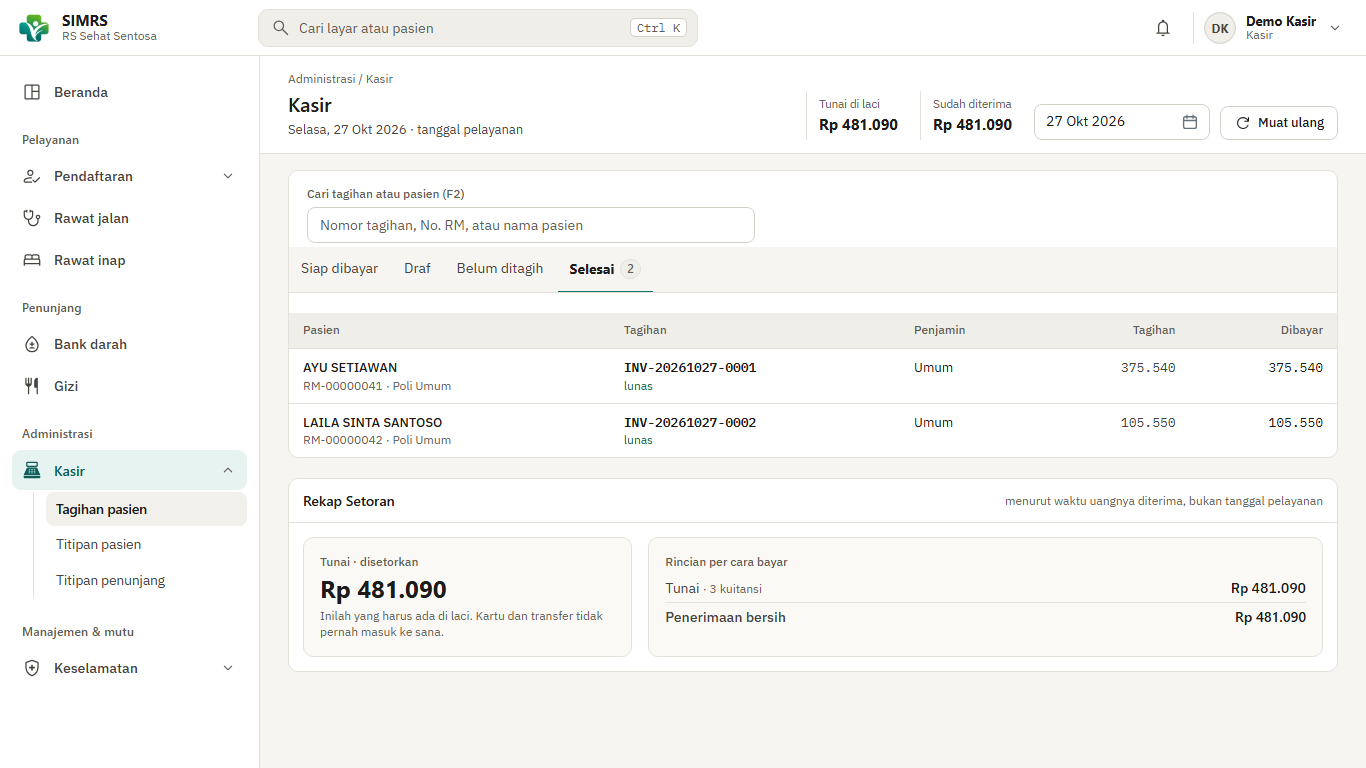
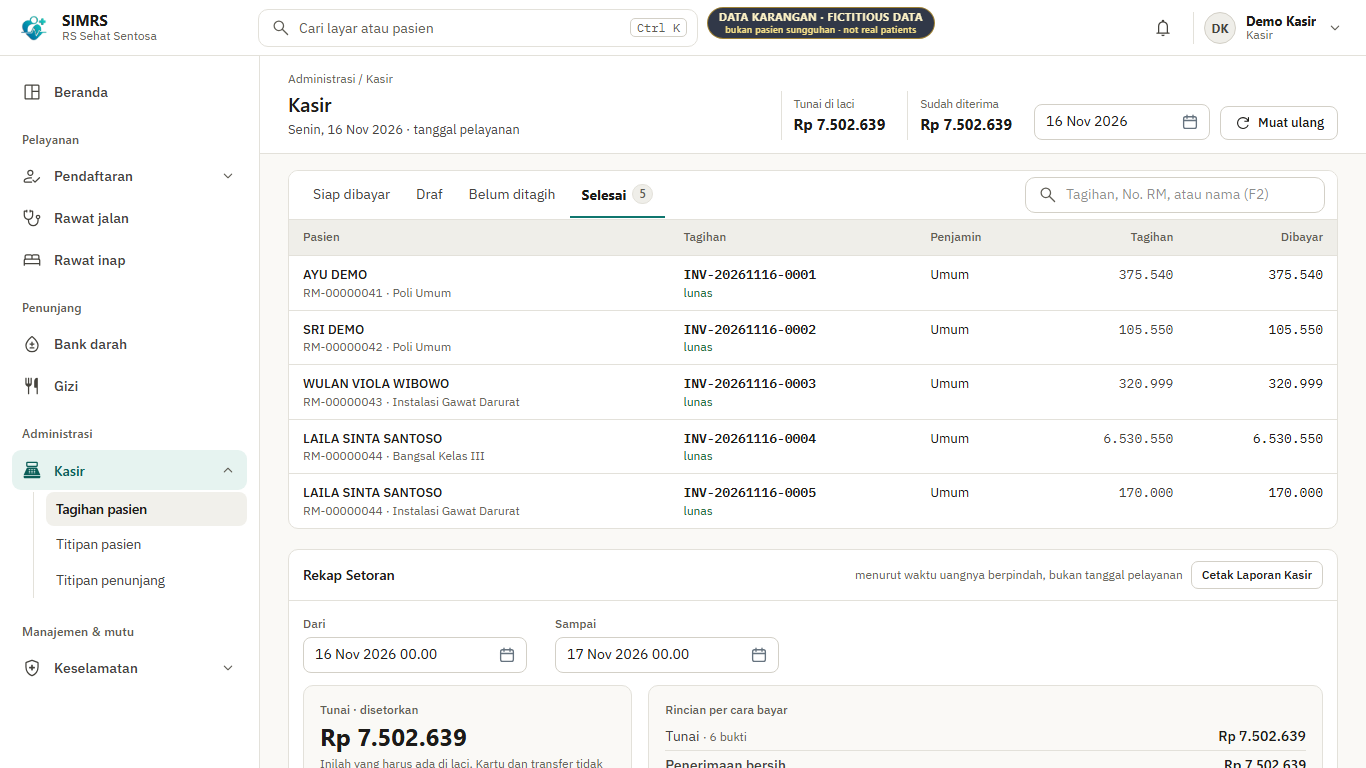
Rilis 2026.11.16: tangkapan layar diperbarui, angka bukti diukur ulang, video S0 sampai S3 segera tayang

diff --git a/README.md b/README.md
@@ -83,7 +83,7 @@ dokternya tenaga kesehatan uji milik Kemenkes (namanya tersamar, begitulah sandb
 <table>
 <tr>
 <td width="50%"><img src="gambar/igd-papan-triase.png" alt="Papan IGD"><br><sub><b>IGD.</b> Antrean menurut kegawatan, dengan peringatan bila lewat target tanggap.</sub></td>
-<td width="50%"><img src="gambar/kamar-operasi.png" alt="Kamar operasi"><br><sub><b>Kamar operasi.</b> Waktu operasi, persetujuan tindakan, dan set instrumen.</sub></td>
+<td width="50%"><img src="gambar/kamar-operasi.png" alt="Kamar operasi"><br><sub><b>Kamar operasi.</b> Asesmen pra-anestesi, pemulihan pasca-anestesi, dan waktu operasi.</sub></td>
 </tr>
 <tr>
 <td><img src="gambar/kamar-bersalin.png" alt="Kamar bersalin"><br><sub><b>Kamar bersalin.</b> Catatan persalinan, komplikasi, persetujuan tindakan, dan tanda vital ibu.</sub></td>
@@ -147,7 +147,7 @@ Dua hal berlaku untuk semuanya:
 
 Kolom *Keadaan* menjawab satu pertanyaan: **seberapa jauh integrasinya sudah dibuktikan.**
 
-| Integrasi | Fungsinya | Keadaan (3 Nov 2026) |
+| Integrasi | Fungsinya | Keadaan (16 Nov 2026) |
 |---|---|---|
 | **SATUSEHAT** (HL7 FHIR R4) | Data master dan data klinis tiap kunjungan, resume medis, tagihan. Di lembar kerja ada juga tombol **SATUSEHAT Rekam Medis (SSRME)**: minta persetujuan pasien, akses darurat IGD, dan pembukaan rekam medis nasional oleh dokter penanggung jawab | **Terbukti di sandbox Kemenkes.** Produksi menunggu registrasi sistem rekam medis ke Kemenkes dan kredensial produksi |
 | **SATUSEHAT Webhook** | Menerima jawaban penjamin (eligibilitas, persetujuan, hasil klaim) | Penerima dan pembuka pesan terenkripsi (HPKE) ada, diuji dengan vektor RFC 9180. **Kiriman sungguhan dari Kemenkes belum pernah terlihat** |
@@ -198,15 +198,15 @@ terpenuhi**.
 
 ## Bagaimana kami membuktikannya
 
-Angka di bawah diukur pada **3 November 2026** dan akan basi. Tanggalnya sengaja ditulis. Tangkapan dasbor Kemenkes
+Angka di bawah diukur pada **16 November 2026** dan akan basi. Tanggalnya sengaja ditulis. Tangkapan dasbor Kemenkes
 di bawahnya bertanggal sendiri.
 
 | Yang diukur | Hasil | Cara |
 |---|---|---|
 | Langkah interoperabilitas SATUSEHAT yang jadi tugas sistem rumah sakit | **499 dari 526** terbukti diterima gerbang sandbox. 27 belum | Daftar langkah resmi Kemenkes per modul (34 modul), diadu mesin dengan bukti dari gerbang. 61 langkah lain dikerjakan pihak lain |
-| Jenis pesan yang pernah diterima gerbang | 119 | Berkas bukti ditulis mesin dari antrean sesudah rantai dijalankan |
+| Jenis pesan yang pernah diterima gerbang | 121 | Berkas bukti ditulis mesin dari antrean sesudah rantai dijalankan |
 | Jenis resource di dasbor Monitoring Integrasi SATUSEHAT (sandbox) | **19 dari 19** terisi, rentang 27 Sep sampai 27 Okt 2026, diperbarui 27 Okt 2026 pukul 00.01 WIB | Tangkapan dasbor milik Kemenkes di sisi mereka, dibaca sesudah seluruh skenario dan tur dijalankan. Gambarnya di bawah |
-| Tur otomatis | **362 tes** di 28 berkas | Peramban sungguhan yang menekan tombol seperti petugas: tes yang hijau berarti tombolnya benar-benar bekerja |
+| Tur otomatis | **441 tes** di 37 berkas | Peramban sungguhan yang menekan tombol seperti petugas: tes yang hijau berarti tombolnya benar-benar bekerja |
 
 <img src="gambar/monitoring-satusehat-sandbox.png" alt="Dasbor Monitoring Integrasi SATUSEHAT di sandbox: seluruh 19 jenis resource terisi" width="860">
 
@@ -315,15 +315,16 @@ jurnal akuntansi yang lahir dari kegiatan rumah sakit, beserta pekerjaan bagian 
 
 | Video | Isinya | Tonton |
 |---|---|---|
-| **S0** | Dari paket yang baru diunduh sampai aplikasi siap dipakai | [Tonton](https://youtu.be/vxvFJVgF-ik), 17 menit |
-| **S1** | Rawat jalan poli umum dengan dua pasien: pendaftaran, pemeriksaan, penahanan alergi, laboratorium, radiologi, farmasi, kasir | [Tonton](https://youtu.be/6iUPR7-54cw), 34 menit |
-| **S2** | IGD: pasien tak dikenal, obat dari troli, pulang | [Tonton](https://youtu.be/Dmu7YNxhUm4), 14 menit |
-| **S3** | IGD ke rawat inap ke operasi ke pulang | [Tonton](https://youtu.be/FJ4FmjZpwsE), 38 menit |
+| **S0** | Dari paket yang baru diunduh sampai aplikasi siap dipakai | Segera tayang, 17 menit |
+| **S1** | Rawat jalan poli umum dengan dua pasien: pendaftaran, pemeriksaan, penahanan alergi, laboratorium, radiologi, farmasi, kasir | Segera tayang, 32 menit |
+| **S2** | IGD: pasien tak dikenal ditangani tanpa menunggu identitas, obat dari troli, identitas dilengkapi pada berkas yang sama, tagihan lunas | Segera tayang, 17 menit |
+| **S3** | IGD ke rawat inap ke operasi ke pulang, dengan obat pulang dari apotek dan resume medis | Segera tayang, 37 menit |
 | **AK1** | Akuntansi: jurnal yang lahir dari kegiatan rumah sakit, dari obat diterima sampai klaim BPJS dibayar, dibuka dengan neraca, laba rugi, dan stok awal bulan | [Tonton](https://youtu.be/O_5LYMKMhAQ), 15 menit |
 | **AK2** | Akuntansi: utang pemasok, aset tetap, gaji, jasa dokter, dan penyusutan, ditutup dengan neraca dan laba rugi dua periode serta kartu stok | [Tonton](https://youtu.be/8NDDQrqOtHM), 11 menit |
 
-Video direkam pada 3 November 2026 dari versi yang hampir sama dengan rilis terbaru. Beberapa
-perbaikan tampilan kecil menyusul sesudahnya, jadi satu dua layar dapat sedikit berbeda.
+S0 sampai S3 direkam ulang pada 15 dan 16 November 2026 dari versi yang hampir sama dengan rilis 2026.11.16, sesudah
+tampilannya banyak berubah. AK1 dan AK2 direkam 3 November 2026, jadi beberapa layarnya dapat
+sedikit berbeda dari versi terbaru.
 
 Video **tidak membuktikan pengiriman ke Kemenkes**. Integrasi dimatikan pada rekamannya.
 

diff --git a/docs/PANDUAN.md b/docs/PANDUAN.md
@@ -94,8 +94,10 @@ aplikasi lalu hanya mengisinya.
   aplikasi ini bisa masuk. Jangan membukanya ke jaringan yang tidak Anda percayai.
 - **Tanpa data contoh, aplikasi mulai dari kosong.** Administrator membuat akun di
   **Pengaturan → Pengguna**, dan data dasar (poliklinik, tenaga kesehatan, layanan, tarif,
-  obat) di **Master data**. Nama rumah sakit bawaannya *RS Sehat Sentosa*; gantilah di
-  **Master data → Lokasi**.
+  obat) di **Master data**. Nama rumah sakit bawaannya *RS Sehat Sentosa*, beralamat
+  karangan (*Jl. Nama Jalan, Kelurahan, Kecamatan, Kabupaten/Kota, Provinsi*) dan
+  berlogo contoh; ketiganya tercetak di kop dokumen dan digantilah di
+  **Pengaturan → Profil rumah sakit**.
 - **Sandi baru administrator tidak boleh memuat kata `admin`**, minimal 10 karakter, dan
   tidak boleh angka saja. Layar ganti sandi menyebutkan syarat mana yang belum terpenuhi.
 - **Autentikator hanya diwajibkan bagi akun pengelola pengguna** (`admin`). Akun demo per peran
